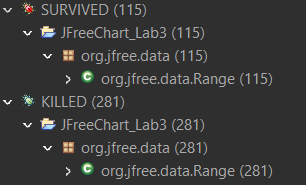
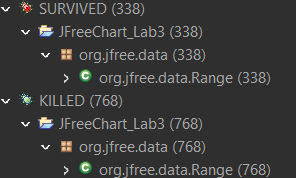
report

diff --git a/seng438-a4-Group-18.md b/seng438-a4-Group-18.md
@@ -34,17 +34,17 @@ In part 2, we are going to perform GUI testing with Sport chek’s web page. The
 ![Caption 1](media/1.png)  
 Figure 1 - Range PIT Test Coverage Report for old test suite  
 
-![Caption 2](media/4.png)  
+![Caption 2](media/2.png)  
 Figure 2 - Range PIT Mutations for old test suite  
 
-![Caption 3](media/2.png)  
+![Caption 3](media/3.png)  
 Figure 3 - Range PIT Test Coverage Report for new test suite  
 
-![Caption 4](media/5.png)  
+![Caption 4](media/4.png)  
 Figure 4 - Range PIT Mutations for new test suite  
 
 ## (2) DataUtilities Class
-![Caption 5](media/3.png)  
+![Caption 5](media/5.png)  
 Figure 5 - DataUtilities PIT Test Coverage Report for old test suite  
 
 ![Caption 6](media/6.png)  
